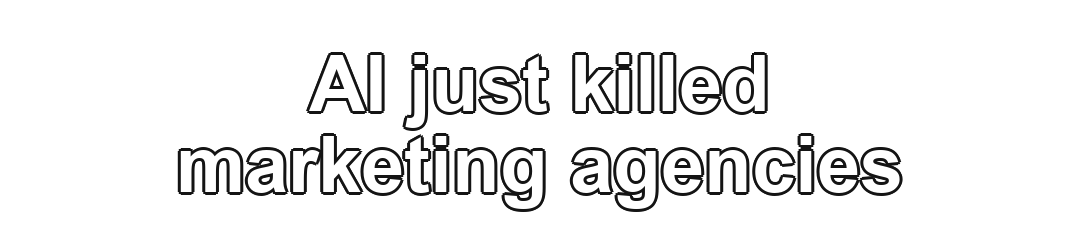
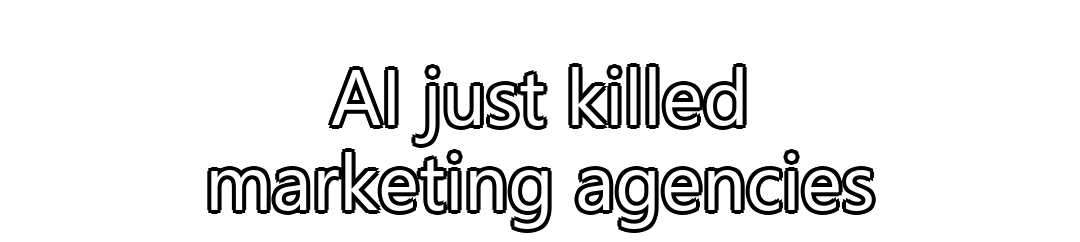
Use System font for hook text and move overlays higher.
- Regenerate hook-line PNGs with Segoe UI, white fill, and black outline.
- Raise overlay placement from 38% to 24% of frame height.

Changed region(s): [[0.1528, 0.2094, 0.8556, 0.9872]]

diff --git a/scripts/generate_hooks_text.py b/scripts/generate_hooks_text.py
@@ -35,7 +35,18 @@ def _slug(text: str) -> str:
 
 
 def _font(size: int) -> ImageFont.FreeTypeFont | ImageFont.ImageFont:
-    for name in ("arialbd.ttf", "Arial Bold.ttf", "segoeuib.ttf", "arial.ttf"):
+    """Prefer the OS system UI font (Segoe UI on Windows)."""
+    candidates = [
+        Path("C:/Windows/Fonts/segoeui.ttf"),
+        Path("/System/Library/Fonts/Supplemental/Arial.ttf"),
+        Path("/System/Library/Fonts/Helvetica.ttc"),
+        Path("/usr/share/fonts/truetype/dejavu/DejaVuSans.ttf"),
+    ]
+    for path in candidates:
+        if path.is_file():
+            return ImageFont.truetype(str(path), size)
+
+    for name in ("segoeui.ttf", "Segoe UI.ttf", "arial.ttf"):
         try:
             return ImageFont.truetype(name, size)
         except OSError:
@@ -106,16 +117,20 @@ def _draw_label(text: str, dest: Path) -> None:
         x = (WIDTH - tw) // 2
 
         for dx, dy in (
-            (-3, 0),
-            (3, 0),
-            (0, -3),
-            (0, 3),
+            (-4, 0),
+            (4, 0),
+            (0, -4),
+            (0, 4),
+            (-3, -3),
+            (3, -3),
+            (-3, 3),
+            (3, 3),
             (-2, -2),
             (2, -2),
             (-2, 2),
             (2, 2),
         ):
-            draw.text((x + dx, y + dy), line, font=font, fill=(0, 0, 0, 235))
+            draw.text((x + dx, y + dy), line, font=font, fill=(0, 0, 0, 255))
         draw.text((x, y), line, font=font, fill=(255, 255, 255, 255))
         y += th + line_gap
 

diff --git a/clip_assembler.py b/clip_assembler.py
@@ -436,7 +436,7 @@ def _overlay_xy(position: str, margin: int = 64) -> tuple[str, str]:
     mapping = {
         "top": (f"(main_w-overlay_w)/2", str(margin)),
         "upper": (f"(main_w-overlay_w)/2", f"main_h*0.18"),
-        "mid": (f"(main_w-overlay_w)/2", f"(main_h-overlay_h)*0.38"),
+        "mid": (f"(main_w-overlay_w)/2", f"(main_h-overlay_h)*0.24"),
         "center": ("(main_w-overlay_w)/2", "(main_h-overlay_h)/2"),
         "lower": (f"(main_w-overlay_w)/2", f"main_h*0.62"),
         "bottom": (f"(main_w-overlay_w)/2", f"main_h-overlay_h-{margin}"),

diff --git a/content_generator.py b/content_generator.py
@@ -66,7 +66,7 @@ def panel_embed() -> discord.Embed:
             "**Generate Content** — 1 video\n"
             "**Batch Generate** — up to 5 videos (different hooks, body, music & effects)\n\n"
             "Each export gets random color, scale, rotation & end cut. "
-            "A random hook line stays mid-screen for the full hook segment."
+            "A random hook line stays upper-mid screen for the full hook segment."
         ),
         color=CONTENT_COLOR,
     )

diff --git a/assets/clips/README.md b/assets/clips/README.md
@@ -29,7 +29,7 @@ assets/clips/
 | `hooks/`   | `.mp4`, `.mov` | Vertical 9:16 preferred (1080×1920). 3–8 seconds. |
 | `body/`    | `.mp4`, `.mov` | Main content; can be 30–90s. |
 | `music/`   | `.mp3`, `.m4a`, `.wav` | Mixed at ~42% volume under your body audio. Hook segments are always silent. |
-| `hooks_text/` | `.png` (transparent) or `.mp4` | Shown **mid-screen for the full hook segment** only. |
+| `hooks_text/` | `.png` (transparent) or `.mp4` | Shown **upper-mid screen** for the full hook segment only. |
 
 ## How assembly works
 
@@ -40,7 +40,7 @@ assets/clips/
    - Scale: 100% → up to 105%, then center-crop to 1080×1920
    - Rotation: ±0.5°
    - **Mini cut:** trims 0.08–0.25s off the end
-   - Text overlay **mid-screen** for the **entire hook** (hidden when the body starts)
+   - Text overlay **upper-mid screen** for the **entire hook** (hidden when the body starts)
 
 ## Requirements
 
